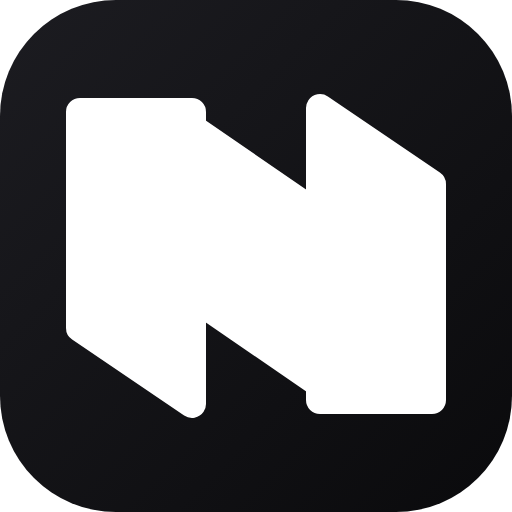
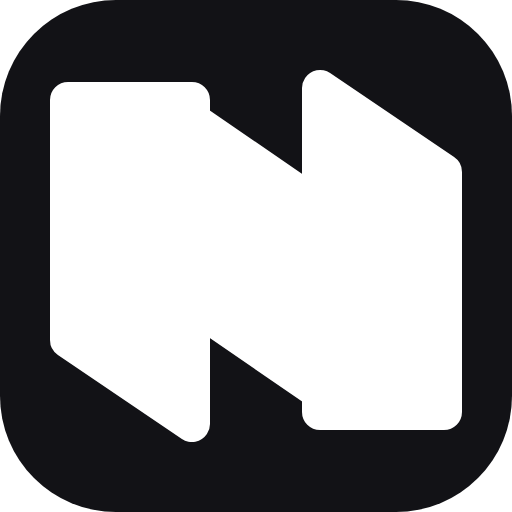
Монограмма N крупнее, полностью плоский фон, сброс кэша иконок
Claude-Session: https://claude.ai/code/session_01FsDRmW33rEGe7btnssq8WG

Changed region(s): [[0.0938, 0.125, 0.9062, 0.875]]

diff --git a/styles.css b/styles.css
@@ -39,7 +39,8 @@
 
 * { box-sizing: border-box; margin: 0; -webkit-tap-highlight-color: transparent; }
 
-html, body {
+html { background: var(--bg); }
+body {
   min-height: 100%;
   background: var(--bg);
   color: var(--text);
@@ -63,7 +64,6 @@ button { background: none; border: 0; cursor: pointer; touch-action: manipulatio
   flex-direction: column;
   padding: calc(var(--safe-top) + 12px) 18px calc(var(--safe-bottom) + 16px);
   overflow: hidden;
-  background-image: radial-gradient(95% 55% at 50% 100%, #1f1f24 0%, rgba(20, 20, 22, 0) 72%);
   animation: in .24s ease-out;
 }
 .screen.tabbed { padding-bottom: 0; }
@@ -79,7 +79,6 @@ button { background: none; border: 0; cursor: pointer; touch-action: manipulatio
     border: 1px solid var(--border);
     border-radius: 36px;
     background: var(--bg);
-    background-image: radial-gradient(90% 55% at 50% 100%, #202024 0%, rgba(20, 20, 22, 0) 72%);
     padding: 20px 20px 24px;
     box-shadow: 0 40px 110px rgba(0, 0, 0, .7);
   }

diff --git a/index.html b/index.html
@@ -10,8 +10,8 @@
   <meta name="apple-mobile-web-app-title" content="NOTA">
   <title>NOTA</title>
   <link rel="manifest" href="./manifest.webmanifest">
-  <link rel="icon" href="./icon.svg" type="image/svg+xml">
-  <link rel="apple-touch-icon" href="./icon-180.png">
+  <link rel="icon" href="./icon.svg?v=3" type="image/svg+xml">
+  <link rel="apple-touch-icon" href="./icon-180.png?v=3">
   <link rel="preload" href="./fonts/manrope-latin.woff2" as="font" type="font/woff2" crossorigin>
   <link rel="preload" href="./fonts/manrope-cyrillic.woff2" as="font" type="font/woff2" crossorigin>
   <link rel="stylesheet" href="./styles.css">

diff --git a/sw.js b/sw.js
@@ -1,4 +1,4 @@
-const CACHE = 'nota-v14';
+const CACHE = 'nota-v15';
 const SHELL = ['./', './index.html', './styles.css', './app.js', './store.js', './auth.js', './ui.js', './screens.js', './statement.js', './manifest.webmanifest', './icon.svg', './icon-180.png', './icon-512.png', './fonts/manrope-latin.woff2', './fonts/manrope-cyrillic.woff2'];
 
 self.addEventListener('install', (e) => {
